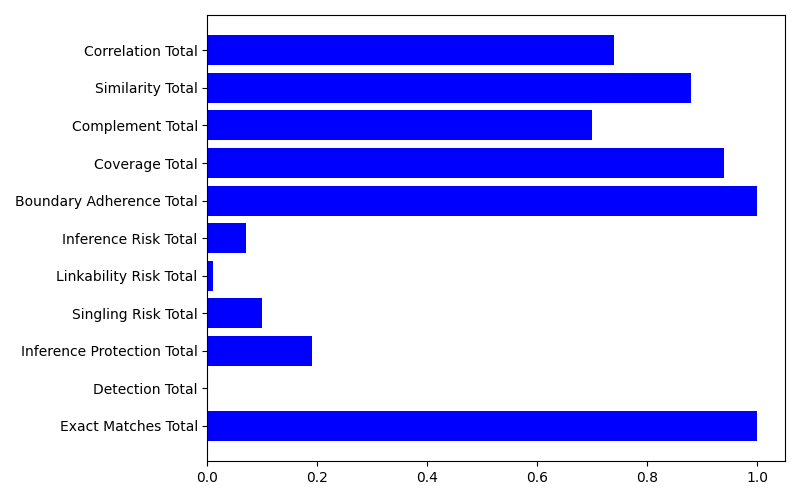
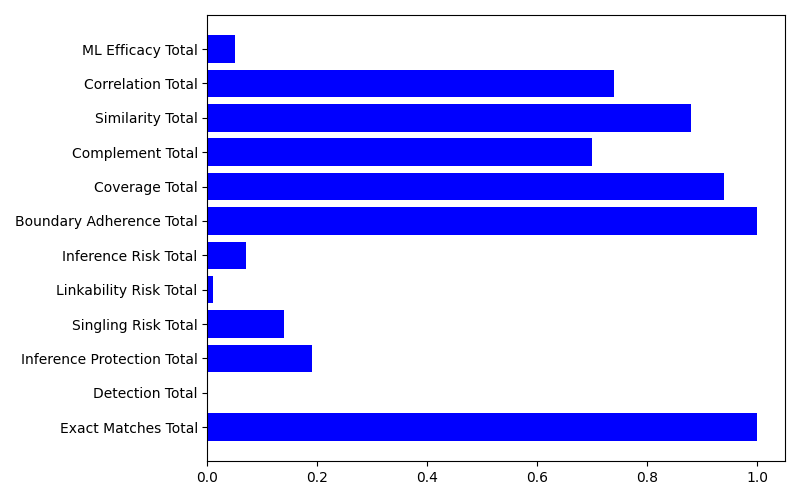
changes

diff --git a/evaluate/report.py b/evaluate/report.py
@@ -26,12 +26,26 @@ def save_figure_to_image(fig):
     return img_data
 
 def create_metric_table(privacy_scores, quality_scores, utility_scores):
-    combined = combine_dicts(privacy_scores, quality_scores, utility_scores)
-    total_combined = {key: value for key, value in combined.items() if 'Total' in key}
-    x = list(total_combined.keys())
-    y = list(total_combined.values())
-    data = {'Metric Name': x, 'Score': y}
-    df = pd.DataFrame(data)
+    privacy_scores = {key: value for key, value in privacy_scores.items() if 'Total' in key}
+    privacy_df = pd.DataFrame({'Privacy Metrics': privacy_scores.keys(), 
+                                'Score': privacy_scores.values()})
+    privacy_df['Privacy Metrics'] = privacy_df['Privacy Metrics'].str.replace(r'\bTotal\b', '', regex=True).str.strip()
+    quality_scores = {key: value for key, value in quality_scores.items() if 'Total' in key}
+    quality_df = pd.DataFrame({'Quality Metrics': quality_scores.keys(), 
+                                'Score': quality_scores.values()})
+    quality_df['Quality Metrics'] = quality_df['Quality Metrics'].str.replace(r'\bTotal\b', '', regex=True).str.strip()
+    utility_scores = {key: value for key, value in utility_scores.items() if 'Total' in key}
+    utility_df = pd.DataFrame({'Utility Metrics': utility_scores.keys(), 
+                                'Score': utility_scores.values()})
+    utility_df['Utility Metrics'] = utility_df['Utility Metrics'].str.replace(r'\bTotal\b', '', regex=True).str.strip()
+    df = pd.concat([privacy_df, quality_df, utility_df], axis=1)
+    
+    #combined = combine_dicts(privacy_scores, quality_scores, utility_scores)
+    #total_combined = {key: value for key, value in combined.items() if 'Total' in key}
+    #x = list(total_combined.keys())
+    #y = list(total_combined.values())
+    #data = {'Metric Name': x, 'Score': y}
+    #df = pd.DataFrame(data)
     return df
 
 # Create the PDF report with text, a table, and a plot

diff --git a/evaluate/utility.py b/evaluate/utility.py
@@ -89,7 +89,7 @@ def evaluate_utility(table_type, data, synthetic_data, identifier_column, predic
         'Similarity Individual': similarity_scores,
         'Correlation Total': avg_correlation_score,
         'Correlation Individual': correlation_scores,
-        'ML Efficacy': ml_efficacy_score
+        'ML Efficacy Total': round(ml_efficacy_score, 2)
     }
 
     return utility_scores
